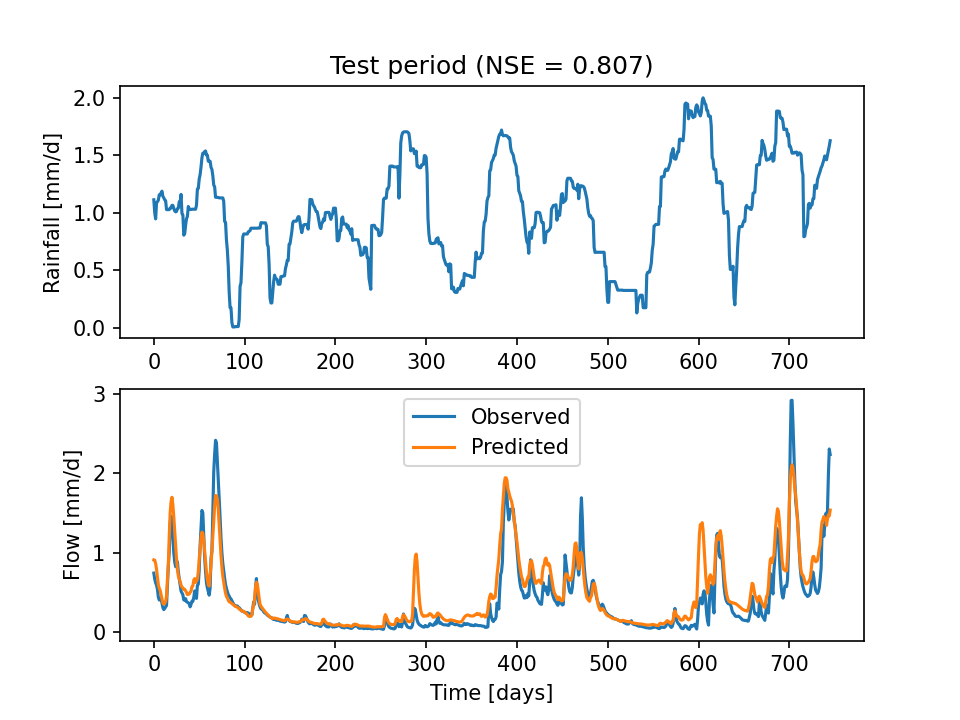
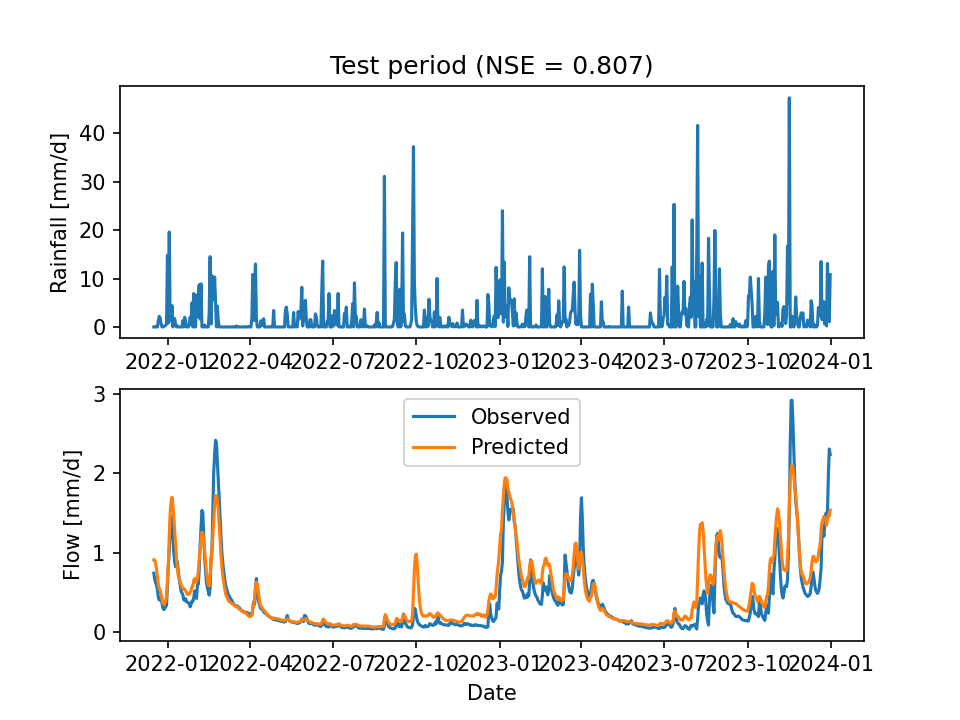
updated some plots, minor

diff --git a/Single-Catchment/LSTM_Havelse_7features/C_ModelEvaluation.py b/Single-Catchment/LSTM_Havelse_7features/C_ModelEvaluation.py
@@ -51,17 +51,14 @@ pred_test = pred_all[:, n_train+n_val:]
 
 #Unscale output
 #training
-rainseries_train = unscale_series(inputs_train[0,:,0],inputscales).numpy()
 flowpred_train = unscale_series(pred_train[0,:],labelscales).numpy()
 flowobs_train = unscale_series(labels_train[0,:],labelscales).numpy()
 
 #Validation 
-rainseries_val = unscale_series(inputs_val[0,:,0],inputscales).numpy()
 flowpred_val = unscale_series(pred_val[0,:],labelscales).numpy()
 flowobs_val = unscale_series(labels_val[0,:],labelscales).numpy()
 
 #Test 
-rainseries_test = unscale_series(inputs_test[0,:,0],inputscales).numpy()
 flowpred_test = unscale_series(pred_test[0,:],labelscales).numpy()
 flowobs_test = unscale_series(labels_test[0,:],labelscales).numpy()
 
@@ -76,15 +73,27 @@ np.save('observations_test.npy', flowobs_test)
 nse_train = nse(flowobs_train, flowpred_train)
 print(f'Training NSE: {nse_train:3f}')
 
+#want to plot raw precip for each period to show with predictions 
+raw_data = pd.read_csv('Data/LSTM_dataframe.csv', index_col=0, parse_dates=True)
+precip_daily = raw_data['precipitation'].values
+precip_train = precip_daily[:n_train]
+precip_val   = precip_daily[n_train:n_train+n_val]
+precip_test  = precip_daily[n_train+n_val:]
+
+#Add date slices to include in figures (showing no. days currently)
+dates_train = raw_data.index[:n_train]
+dates_val   = raw_data.index[n_train:n_train+n_val]
+dates_test  = raw_data.index[n_train+n_val:]
+
 #PLot training predictions
 fig,ax = plt.subplots(nrows=2)
-ax[0].plot(rainseries_train)
+ax[0].plot(dates_train, precip_train)
 ax[0].set_ylabel('Rainfall [mm/d]')
 ax[0].set_title(f'Training period (NSE = {nse_train:.3f})')
-ax[1].plot(flowobs_train, label='Observed')
-ax[1].plot(flowpred_train, label='Predicted')
+ax[1].plot(dates_train, flowobs_train, label='Observed')
+ax[1].plot(dates_train, flowpred_train, label='Predicted')
 ax[1].set_ylabel('Flow [mm/d]')
-ax[1].set_xlabel('Time [days]')
+ax[1].set_xlabel('Date')
 ax[1].legend()
 fig.savefig(os.path.join(figures_dir, 'lstm_training_predictions.png'), dpi=150)
 
@@ -94,13 +103,13 @@ print(f'Validation NSE: {nse_val:3f}')
 
 #PLot Validation predictions 
 fig,ax = plt.subplots(nrows=2)
-ax[0].plot(rainseries_val)
+ax[0].plot(dates_val, precip_val)
 ax[0].set_ylabel('Rainfall [mm/d]')
 ax[0].set_title(f'Validation period (NSE = {nse_val:.3f})')
-ax[1].plot(flowobs_val, label='Observed')
-ax[1].plot(flowpred_val, label='Predicted')
+ax[1].plot(dates_val, flowobs_val, label='Observed')
+ax[1].plot(dates_val, flowpred_val, label='Predicted')
 ax[1].set_ylabel('Flow [mm/d]')
-ax[1].set_xlabel('Time [days]')
+ax[1].set_xlabel('Date')
 ax[1].legend()
 fig.savefig(os.path.join(figures_dir, 'lstm_validation_predictions.png'), dpi=150)
 
@@ -110,13 +119,13 @@ print(f'Test NSE: {nse_test:.3f}')
 
 #Plot Test Predictions 
 fig,ax = plt.subplots(nrows=2)
-ax[0].plot(rainseries_test)
+ax[0].plot(dates_test, precip_test)
 ax[0].set_ylabel('Rainfall [mm/d]')
 ax[0].set_title(f'Test period (NSE = {nse_test:.3f})')
-ax[1].plot(flowobs_test, label='Observed')
-ax[1].plot(flowpred_test, label='Predicted')
+ax[1].plot(dates_test, flowobs_test, label='Observed')
+ax[1].plot(dates_test, flowpred_test, label='Predicted')
 ax[1].set_ylabel('Flow [mm/d]')
-ax[1].set_xlabel('Time [days]')
+ax[1].set_xlabel('Date')
 ax[1].legend()
 fig.savefig(os.path.join(figures_dir, 'lstm_test_predictions.png'), dpi=150)
 
@@ -181,11 +190,6 @@ plt.show()
 
 #Save test predictions in m3/s for model comparison 
 CATCHMENT_AREA_M2 = 140000000 #140km2 = 14,000 ha 
-
-df_all = pd.read_csv('Data/LSTM_dataframe.csv', sep = ',', index_col = 0, parse_dates = True)
-n = len(df_all)
-test_index = int(n * 0.90)
-dates_test = df_all.index[test_index:]
 
 test_predictions = pd.DataFrame({
     'predicted_m3s': flowpred_test * CATCHMENT_AREA_M2 / 1000 / 86400,
